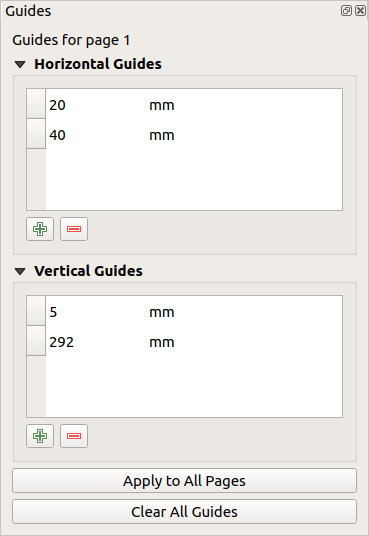
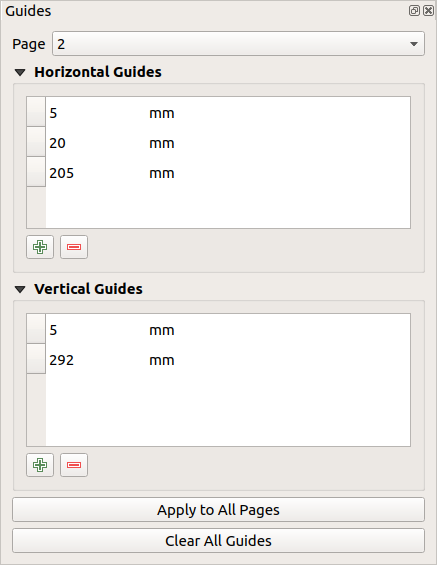
Update layout guides panel

diff --git a/source/docs/user_manual/print_composer/overview_composer.rst b/source/docs/user_manual/print_composer/overview_composer.rst
@@ -661,8 +661,8 @@ panel. Right-click on a page and select :guilabel:`Page Properties...`. The
 * the |unchecked| :guilabel:`Exclude page from exports` to control whether the
   current page with its content should be included in the :ref:`layout output
   <create-output>`;
-* the :guilabel:`Background` using the :ref:`color <color-selector>` or
-  :ref:`symbol <symbol-selector>` you want.
+ * the :guilabel:`Background` of the current page using the
+   :ref:`color <color-selector>` or :ref:`symbol <symbol-selector>` you want. 
 
 .. _figure_layout_page:
 
@@ -682,12 +682,14 @@ Guides are vertical or horizontal line references you can place on a layout
 page to assist you on items placement, when creating, moving or resizing them.
 To be active, guides require the :menuselection:`View --> Show Guides` and
 :menuselection:`View --> Snap to Guides` options to be checked.
-To create a guide, two ways:
+To create a guide, different ways:
 
 * assuming :menuselection:`View --> Show Rulers` option is set, drag out a
   ruler and release the mouse button within the page area, at the desired
   position.
-* more accurate and always available, use the :guilabel:`Guides` panel.
+* more accurate, use the :guilabel:`Guides` panel from the :menuselection:`View
+  --> Toolbox -->` or by selecting :guilabel:`Manage guides for page...`
+  from the page's contextual menu.
 
 .. _figure_layout_guides_panel:
 
@@ -697,24 +699,22 @@ To create a guide, two ways:
    The Guides panel
 
 The :guilabel:`Guides` panel allows creation of snap lines at specific
-locations: click the |signPlus| :sup:`Add new guide` button and enter
-coordinates of the  horizontal or vertical line. Different units are available
-for setting.
-The panel also allows adjusting position of existing guides to exact
-coordinates: double-click a guide coordinate and replace the value.
+locations:
 
-To delete a guide, select it and press |signMinus| :sup:`Remove selected guide`
-button. Use :guilabel:`Clear All Guides` to remove all the guides in the panel.
+#. Select the :guilabel:`Page` you'd like to add the guides to
+#. Click the |signPlus| :sup:`Add new guide` button and enter the coordinates
+   of the horizontal or vertical line. The origin is at the top right corner.
+   Different units are available for setting.
 
-Guides are single page only meaning that the :guilabel:`Guides` panel lists
-guides of the current page (whose number is shown at the top of the dialog).
-Likewise, it allows creation or removal of guides only in the current page.
-The :guilabel:`Apply to All Pages` button allows you to setup the guide configuration
-on a single page and easily transfer it to all other pages in the layout.
-
-.. actually, I'm not sure what does mean current page for the guides panel as
-  when multiple pages are visible, the behavior is not predictable (see bug
-  report https://issues.qgis.org/issues/17804)
+   The panel also allows adjusting position of existing guides to exact
+   coordinates: double-click a guide coordinate and replace the value.
+#. The :guilabel:`Guides` panel lists only items for the current page.
+   It allows creation or removal of guides only in the current page.
+   However, you can use the :guilabel:`Apply to All Pages` button to replicate
+   the guide configuration of the current page to the other pages in the layout.
+#. To delete a guide, select it and press |signMinus| :sup:`Remove selected
+   guide` button. Use :guilabel:`Clear All Guides` to remove all the guides
+   in the current page.
 
 .. tip:: **Snapping to existing layout items**
 
